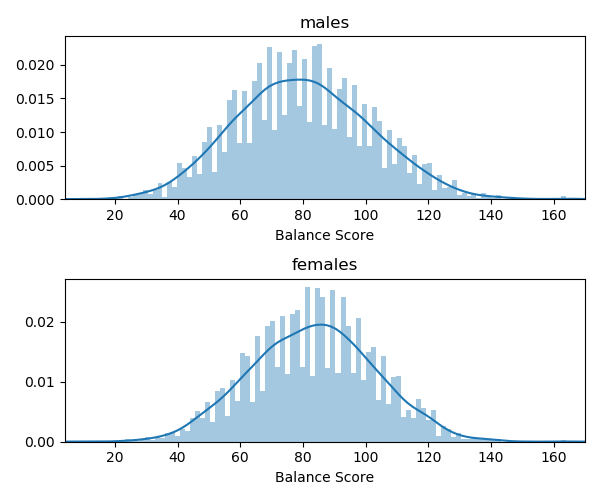
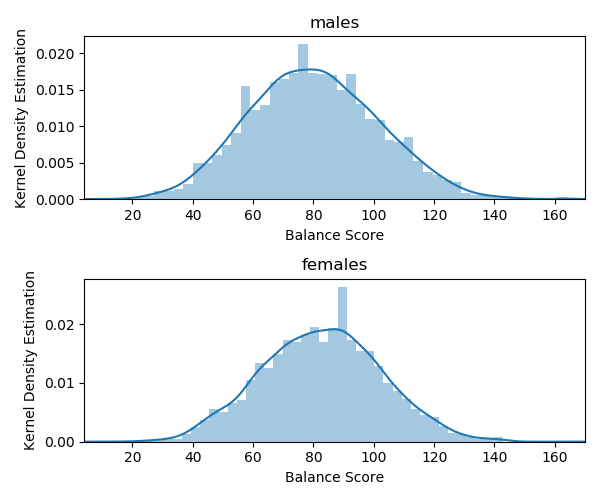
updated images

diff --git a/src/well-style-cs1.py b/src/well-style-cs1.py
@@ -83,7 +83,7 @@ def norm_dist(mean, std):
     
 def hist_bal_by_age():
 
-    x = [[sort_20, sample(sort_21, 1561)], [sample(sort_36,1561), sample(sort_51, 1561)]]
+    x = [[sort_20, samp_21], [samp_36, samp_51]]
     titles = [['20 or less', '21 to 35'], ['36 to 50', '51 or more']]
     fig, ax = plt.subplots(2, 2, figsize=(12, 5))
         
@@ -91,9 +91,10 @@ def hist_bal_by_age():
 
         for j in range(2):
 
-            sns.distplot(x[i][j], bins=100, kde=True, ax=ax[i][j])
+            sns.distplot(x[i][j], bins=50, kde=True, ax=ax[i][j])
             ax[i][j].set_title(titles[i][j])
             ax[i][j].set_xlabel('Balance Score')
+            ax[i][j].set_ylabel('Kernel Density Estimation')
             ax[i][j].set_xlim(4, 170)
             ax[i][j].set_xticks([20,40,60,80,100,120,140,160])
 
@@ -103,7 +104,7 @@ def hist_bal_by_age():
 
 def box_ages():
 
-    x1 = [sort_20, sample(sort_21, 1561), sample(sort_36,1561), sample(sort_51, 1561)]
+    x1 = [sort_20, samp_21, samp_36, samp_51]
     fig, ax = plt.subplots(figsize=(6,5), sharey=True)
     ax.boxplot(x1, positions=[1,2,3,4], labels=['20 or less','21 to 35', '36 to 50', '51 or more'])
     ax.set_title('5-number summary of ages')
@@ -113,14 +114,15 @@ def box_ages():
     
 def hist_bal_by_mf():
     
-    x = [sort_males, sample(sort_females, 5041)]
+    x = [sort_males, samp_females]
     titles = ['males', 'females']
     fig, ax = plt.subplots(2, 1, figsize=(6,5))
 
     for i in range(2):
-        sns.distplot(x[i], bins=100, kde=True, ax=ax[i])
+        sns.distplot(x[i], bins=50, kde=True, ax=ax[i])
         ax[i].set_title(titles[i])
         ax[i].set_xlabel('Balance Score')
+        ax[i].set_ylabel('Kernel Density Estimation')
         ax[i].set_xlim(4, 170)
         ax[i].set_xticks([20,40,60,80,100,120,140,160])
 
@@ -130,26 +132,28 @@ def hist_bal_by_mf():
 
 def box_mf():
 
-    x1 = [sort_males, sample(sort_females,5041)]
+    x1 = [sort_males, samp_females]
     fig, ax = plt.subplots(figsize=(6,5), sharey=True)
     ax.boxplot(x1, positions=[1,2], labels=['males','females'])
     ax.set_title('5-number summary of males and females')
+    ax.set_ylabel('Balance Score')
     #plt.savefig('../images/box_mf.png')    
     #plt.show()
 
 def hist_bal_by_mf_age():
     
-    x = [[sort_male_20, sample(sort_male_21, 686), sample(sort_male_36, 686), sample(sort_male_51,686)], [sort_female_20, sample(sort_female_21, 875), sample(sort_female_36, 875), sample(sort_female_51, 875)]]
+    x = [[sort_male_20, samp_male_21, samp_male_36, samp_male_51], [sort_female_20, samp_female_21, samp_female_36, samp_female_51]]
     titles = [['m: 20 or less', 'm: 21 to 35', 'm: 36 to 50', 'm: 51 or more'], ['f: 20 or less', 'f: 21 to 35', 'f: 36 to 50', 'f: 51 or more']]
-    fig, ax = plt.subplots(2, 4, figsize=(12, 4))
+    fig, ax = plt.subplots(2, 4, figsize=(13, 4))
         
     for i in range(2):
 
         for j in range(4):
 
-            sns.distplot(x[i][j], bins=100, kde=True, ax=ax[i][j])
+            sns.distplot(x[i][j], bins=50, kde=True, ax=ax[i][j])
             ax[i][j].set_title(titles[i][j])
             ax[i][j].set_xlabel('Balance Score')
+            ax[i][j].set_ylabel('Kernel Density Estimation')
             ax[i][j].set_xlim(4, 170)
             ax[i][j].set_xticks([30,60,90,120,150])
 
@@ -159,57 +163,59 @@ def hist_bal_by_mf_age():
 
 def box_mf_age():
 
-    x = [sort_male_20, sample(sort_male_21, 686), sample(sort_male_36, 686), sample(sort_male_51,686), sort_female_20, sample(sort_female_21, 875), sample(sort_female_36, 875), sample(sort_female_51, 875)]
+    x = [sort_male_20, samp_male_21, samp_male_36, samp_male_51, sort_female_20, samp_female_21, samp_female_36, samp_female_51]
     fig, ax = plt.subplots(figsize=(13,5), sharey=True)
     ax.boxplot(x, labels=['m:20 or less','m:21 to 35', 'm:36 to 50', 'm:51 or more', 'f:20 or less', 'f:21 to 35', 'f:36 to 50', 'f:51 or more'])
     ax.set_title('5-number summary of males and females by age')
+    ax.set_ylabel('Balance Score')
     # plt.savefig('../images/box_mf_age.png')    
-    # plt.show()
+    #plt.show()
 
 if __name__ == '__main__':
 
     cleaned_data = clean_data()
-    # print(cleaned_data.info()) 
-    # print(cleaned_data.describe())
-    # print(cleaned_data.head())
 
     mf_age_group = cleaned_data.groupby(['male_female', 'age'])
-    # print(mf_age_group.describe())
     mf_group = cleaned_data.groupby('male_female')
-    # print(mf_group.describe())
     ages_group = cleaned_data.groupby('age')
-    # print(ages_group.describe())
 
     sort_male_20 = sort_mf_age('Male', '20 or less', 'males')
     
     sort_male_21 = sort_mf_age('Male', '21 to 35', 'males')
+    samp_male_21 = sample(sort_male_21,686)
 
     sort_male_36 = sort_mf_age('Male', '36 to 50', 'males')
+    samp_male_36 = sample(sort_male_36,686)
 
     sort_male_51 = sort_mf_age('Male', '51 or more', 'males')
+    samp_male_51 = sample(sort_male_51,686)
 
     sort_female_20 = sort_mf_age('Female', '20 or less', 'females')
 
     sort_female_21 = sort_mf_age('Female', '21 to 35', 'females')
+    samp_female_21 = sample(sort_female_21,875)
 
     sort_female_36 = sort_mf_age('Female', '36 to 50', 'females')
+    samp_female_36 = sample(sort_female_36,875)
 
     sort_female_51 = sort_mf_age('Female', '51 or more', 'females')
+    samp_female_51 = sample(sort_female_51,875)
 
     sort_males = sort_mf('Male', 'males')
 
     sort_females = sort_mf('Female', 'females')
-    # print(sum(sort_males), sum(sort_females))
-    # print(sum(sort_males) / (sum(sort_males + sort_females)))
+    samp_females = sample(sort_females,5041)
 
     sort_20 = sort_age('20 or less')
 
     sort_21 = sort_age('21 to 35')
+    samp_21 = sample(sort_21,1561)
 
     sort_36 = sort_age('36 to 50')
+    samp_36 = sample(sort_36,1561)
     
     sort_51 = sort_age('51 or more')
-    # print(sum((sort_males + sort_females)) / (len(sort_males) + len(sort_females)))
+    samp_51 = sample(sort_51,1561)
 
     # mean_male_bal = get_means(sort_males)
             
@@ -237,9 +243,9 @@ if __name__ == '__main__':
 
     # norm_dist_m = norm_dist(mean_male_bal, std_male_bal)
     
-    # plot_bal_ages = hist_bal_by_age()
+    #plot_bal_ages = hist_bal_by_age()
     # ages_box = box_ages()
-    # plot_bal_m_f = hist_bal_by_mf()
+    #plot_bal_m_f = hist_bal_by_mf()
     # mf_box = box_mf()
-    # plot_bal_mf_a = hist_bal_by_mf_age()    
-    # plot_bal_mf_a = box_mf_age()
+    #plot_bal_mf_a = hist_bal_by_mf_age()    
+    # mf_a_box = box_mf_age()

diff --git a/src/dict_for_diff_groups.py b/src/dict_for_diff_groups.py
@@ -1,5 +1,6 @@
 #this function was used to get the males/females/age ranges into dictionaries.
 #it is no longer being used for the sake of condensed code
+#import well-style-cs1.py
 
 # def group_to_dict(group):
   

diff --git a/src/convert_whole_bal_list.py b/src/convert_whole_bal_list.py
@@ -1,5 +1,7 @@
 #extra information: not sure if i will use
 
+# import well-style-cs1.py
+
 # def convert_to_list():
     
 #     '''returns the balance score column as list'''
